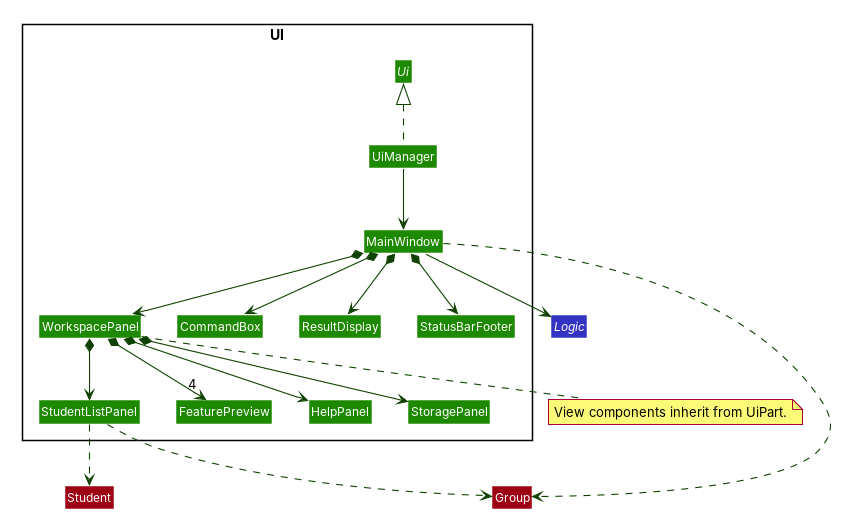
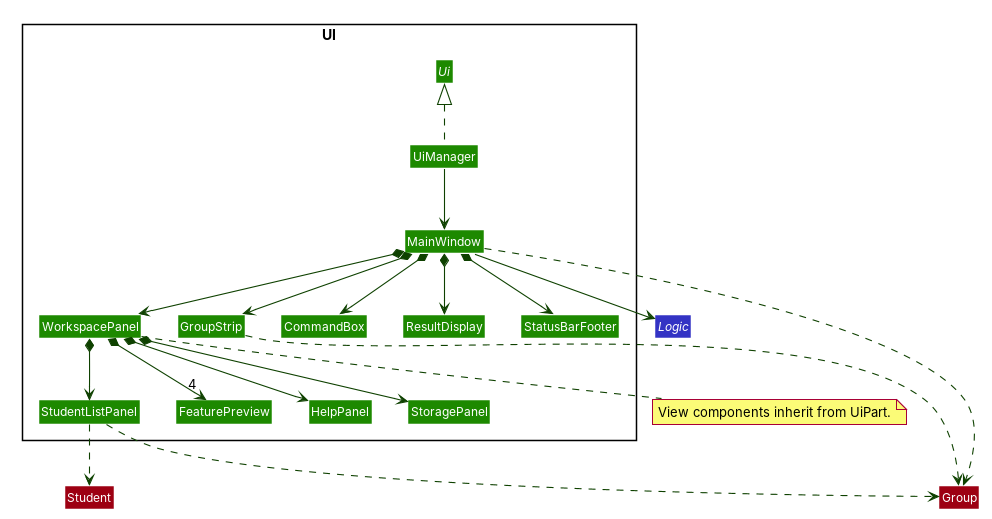
Describe the reworked workspace in the UG and DG
The guides still describe help in the feedback box, a fixed feedback
box, contact commands opening Students, and no group strip.

diff --git a/docs/DeveloperGuide.md b/docs/DeveloperGuide.md
@@ -73,21 +73,30 @@ The **API** of this component is specified in [`Ui.java`](https://github.com/se-
 
 ![Structure of the UI Component](images/UiClassDiagram.png)
 
-The UI consists of `MainWindow`, `WorkspacePanel`, `CommandBox`, `ResultDisplay`, and `StatusBarFooter`.
+The UI consists of `MainWindow`, `GroupStrip`, `WorkspacePanel`, `CommandBox`, `ResultDisplay`, and `StatusBarFooter`.
 `WorkspacePanel` hosts the live `StudentListPanel` table, `HelpPanel`, `StoragePanel`, and four `FeaturePreview` panels.
 All inherit from `UiPart`, which loads their FXML. `TAssist.css` defines the shared visual style and compact layout.
 
-The Students screen (`StudentListPanel`) and the active group label in the header observe the two views that `Logic`
-provides: `activeGroupProperty()` and `getActiveGroupStudentList()` (see
+The active group label in the header, the `GroupStrip` below it and the Students screen (`StudentListPanel`) observe the
+views that `Logic` provides: `getGroupList()`, `activeGroupProperty()` and `getActiveGroupStudentList()` (see
 [Observing the active group](#observing-the-active-group)). They never keep their own copy of the data, so a change to
-the active group or its students shows at once. When the table is empty, its placeholder says whether no group is active
+the groups, the active group or its students shows at once. All three use the same words, "No active group", when no
+group is active. When the table is empty, its placeholder says whether no group is active
 or the active group has no students yet. Columns cannot be sorted or reordered, a list change refreshes the row numbers,
 and long values are shortened with an ellipsis and shown in full in a tooltip.
 
 `view SCREEN` follows the normal command/parser pattern and returns a `WorkspaceView` in `CommandResult`.
 `MainWindow` selects the corresponding screen. `LogicManager` skips persistence for navigation results; switching
-screens does not change the model or filter. Existing contact commands still save through `Storage` and bring the
-Students screen into view. `help` and F1 display the inline reference. Failed commands retain their input and show red feedback.
+screens does not change the model or filter. Other commands keep the current screen, so contact commands, which still
+save through `Storage`, do not jump to the Students screen where contacts are no longer shown.
+
+The command reference is shown only on the Help screen. `help` returns `CommandResult.forHelp(...)` with a one-line
+confirmation and, for `help TOPIC`, the topic. `MainWindow` then asks `WorkspacePanel` to open Help, which scrolls
+`HelpPanel` to that topic's heading. F1, the Help menu and `view help` open the same screen.
+
+`ResultDisplay` sizes itself to the message: it measures how many lines the text wraps to at the current width and
+shows that many rows, from one up to six. Longer messages scroll. Failed commands retain their input and show red
+feedback.
 
 The four feature previews deliberately contain no records and are marked **Coming soon**. They are UI layouts only;
 future increments must connect domain models, commands and persistence before enabling their controls.
@@ -890,18 +899,21 @@ Linux CI enables this test under the runner's virtual display (`xvfb-run`) so th
 The macOS and Windows CI jobs run the standard suite.
 
 The smoke test covers all seven screens at normal and compact sizes, F1 and Escape, navigation without saving,
-the active group label, the Students screen following the active group and its students, both empty states, long
-group and student names, row numbering after a removal, and invalid-input retention. Normal unit tests cover screen
+the active group label, the group strip, the Students screen following the active group and its students, both empty
+states, long group and student names, row numbering after a removal, `help TOPIC` scrolling to its topic, contact
+commands keeping the current screen, a usage message fitting the feedback box, and invalid-input retention. Normal unit tests cover screen
 parsing, result identity, navigation with unavailable storage, and the Students screen's captions and empty states.
 
 For manual testing, build with `./gradlew shadowJar` and launch the JAR in an empty writable folder:
 
 1. Type `help`, `view groups`, `view attendance`, `view participation`, `view assignments`, and `view storage`.
    Verify that preview features are explicitly unavailable, and the storage path is the actual contact data path.
-2. Use `view students`. With no active group, the header shows **None** and the Students screen says that no group
-   is active. Once group and student commands are available, make a group active and add and remove students in it.
+2. Use `view students`. With no active group, the header and the Students screen both say **No active group**, and
+   the group strip says that there are no tutorial groups yet. Once group and student commands are available, make a group active and add and remove students in it.
    The header and the table should update at once.
 3. Enter `edit 1 p/invalid`. Verify that the command remains editable and the feedback describes the invalid phone.
-4. Check F1 and Escape while typing. Resize the window and scroll long content and feedback. Check 1920x1080 at
+   Enter `add` and verify that the whole usage message is readable without scrolling.
+4. Enter `help student`. Verify that Help opens at the student commands and the feedback box shows one line.
+5. Check F1 and Escape while typing. Resize the window and scroll long content and feedback. Check 1920x1080 at
    100% and 125%, and 1280x720 at 100% and 150% on the target platforms. The automated compact preview uses
    853x440 content pixels, allowing for window decorations at 150% scaling.

diff --git a/docs/UserGuide.md b/docs/UserGuide.md
@@ -49,19 +49,24 @@ The top row opens **Students**, **Groups**, **Attendance**, **Participation**, *
 Use the `view` command to open the same screens by typing. The command box and feedback remain visible on every screen.
 Press **Escape** to return focus to the command box, or **F1** to open Help.
 
-* **Students** lists the students in the active tutorial group with their names and student IDs. The header at the
-  top right shows the name of the active group, or **None** when no group is active. Both update as soon as the
-  active group or its students change. When there are no students to list, the screen says whether no group is
+The header at the top right shows the name of the active tutorial group, or **No active group**. Below it, the
+**GROUPS** strip shows every tutorial group, with the active one highlighted. Hover over a shortened group name to
+read it in full.
+
+* **Students** lists the students in the active tutorial group with their names and student IDs. It updates as soon
+  as the active group or its students change. When there are no students to list, the screen says whether no group is
   active or the active group has no students yet. Hover over a shortened name to read it in full, and scroll to see
   more students.
 * **Groups**, **Attendance**, **Participation**, and **Assignments** show the planned layouts with a **Coming soon**
   label. They contain no simulated records. Week controls are unavailable, and their domain commands are not yet
   supported.
-* **Help** provides an offline reference for currently supported commands.
+* **Help** provides an offline reference for currently supported commands. The `help` command opens it.
 * **Storage** shows the configured local JSON file and explains automatic saving.
 
-Feedback turns red when a command fails. The failed input stays in the command box so you can correct it.
-Long feedback and screen contents can be scrolled. Smaller windows use a compact layout.
+The feedback box below the screen tells you whether your last command worked. It grows to fit the message, up to six
+lines; only longer messages need scrolling. Feedback turns red when a command fails, and the failed input stays in the
+command box so you can correct it. A command stays on the current screen unless it opens another one, as `view` and
+`help` do. Screen contents can be scrolled. Smaller windows use a compact layout.
 The footer shows the local file path and reports successful saves or command failures.
 Opening a screen with `view` does not save or change data.
 
